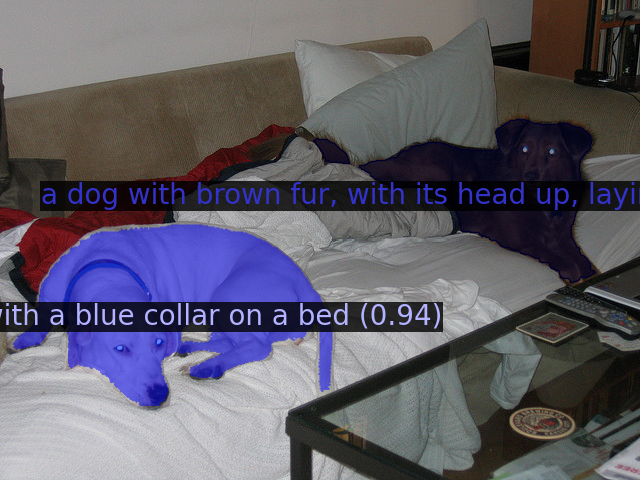
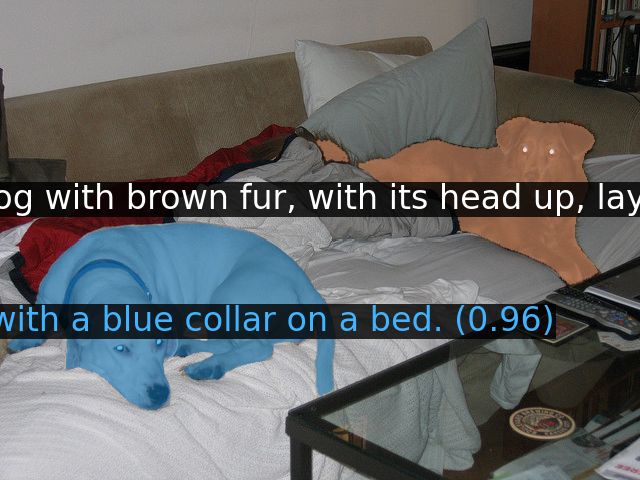
typos

Changed region(s): [[0.0, 0.25, 1.0, 0.875]]

diff --git a/demo/README.md b/demo/README.md
@@ -32,7 +32,7 @@ python demo/<script>.py --config-file <cfg.yaml> --weights <model.pth> --image /
 
 ### Instance segmentation (`instance_inference.py`)
 
-Produces per-instance masks, scores, and boxes for the requested categories and saves a visualization via Detectron2’s `Visualizer`. On COCO for reference:
+Produces per-instance masks, scores, and boxes for the requested categories and saves a visualization via Detectron2’s `Visualizer`. On COCO-style data for reference:
 
 ```bash
 python demo/instance_inference.py \
@@ -54,7 +54,7 @@ cfg.MODEL.OpenWorldSAM2.TEST.IOU_THRESHOLD = 0.8
 
 ### Semantic segmentation (`semantic_inference.py`)
 
-Generates class-wise logits conditioned on the prompts and renders a semantic map overlay. On ADE20K-150 for reference:
+Generates class-wise logits conditioned on the prompts and renders a semantic map overlay. On COCO-style data for reference:
 
 ```bash
 python demo/semantic_inference.py \
@@ -67,7 +67,7 @@ python demo/semantic_inference.py \
 
 ### Panoptic segmentation (`panoptic_inference.py`)
 
-Runs the panoptic head, returning `(panoptic_seg, segments_info)` and saving the rendered mask. On COCO for reference:
+Runs the panoptic head, returning `(panoptic_seg, segments_info)` and saving the rendered mask. On COCO-style data for reference:
 
 ```bash
 python demo/panoptic_inference.py \